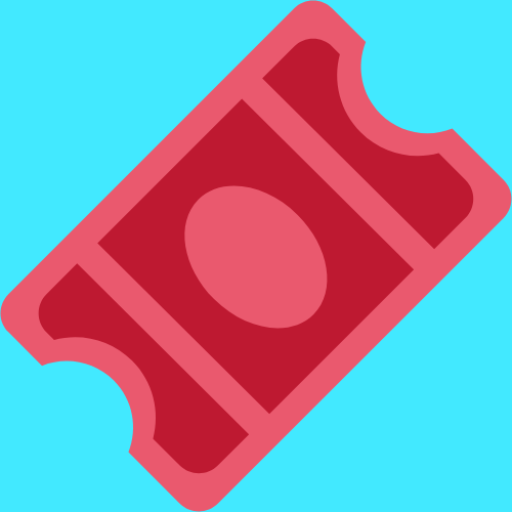
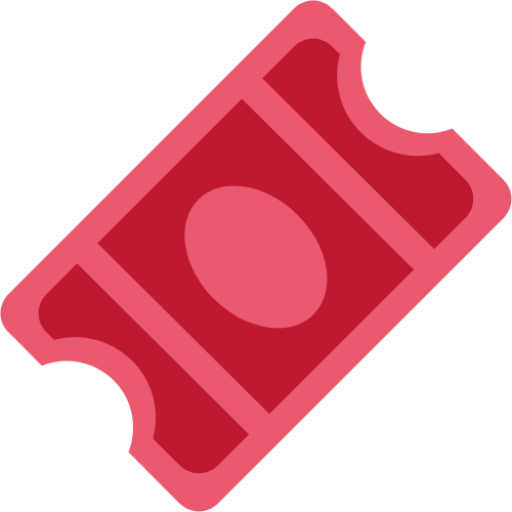
Poucas alterações

diff --git a/index.html b/index.html
@@ -2,9 +2,9 @@
 <html lang="en">
   <head>
     <meta charset="UTF-8" />
-    <link rel="icon" type="image/svg+xml" href="/favicon.svg" />
+    <link rel="icon" type="image/svg+xml" href="/maskable_icon.png" />
     <meta name="viewport" content="width=device-width, initial-scale=1.0" />
-    <title>reactaula</title>
+    <title>Gabriel</title>
   </head>
   <body>
     <div id="root"></div>
